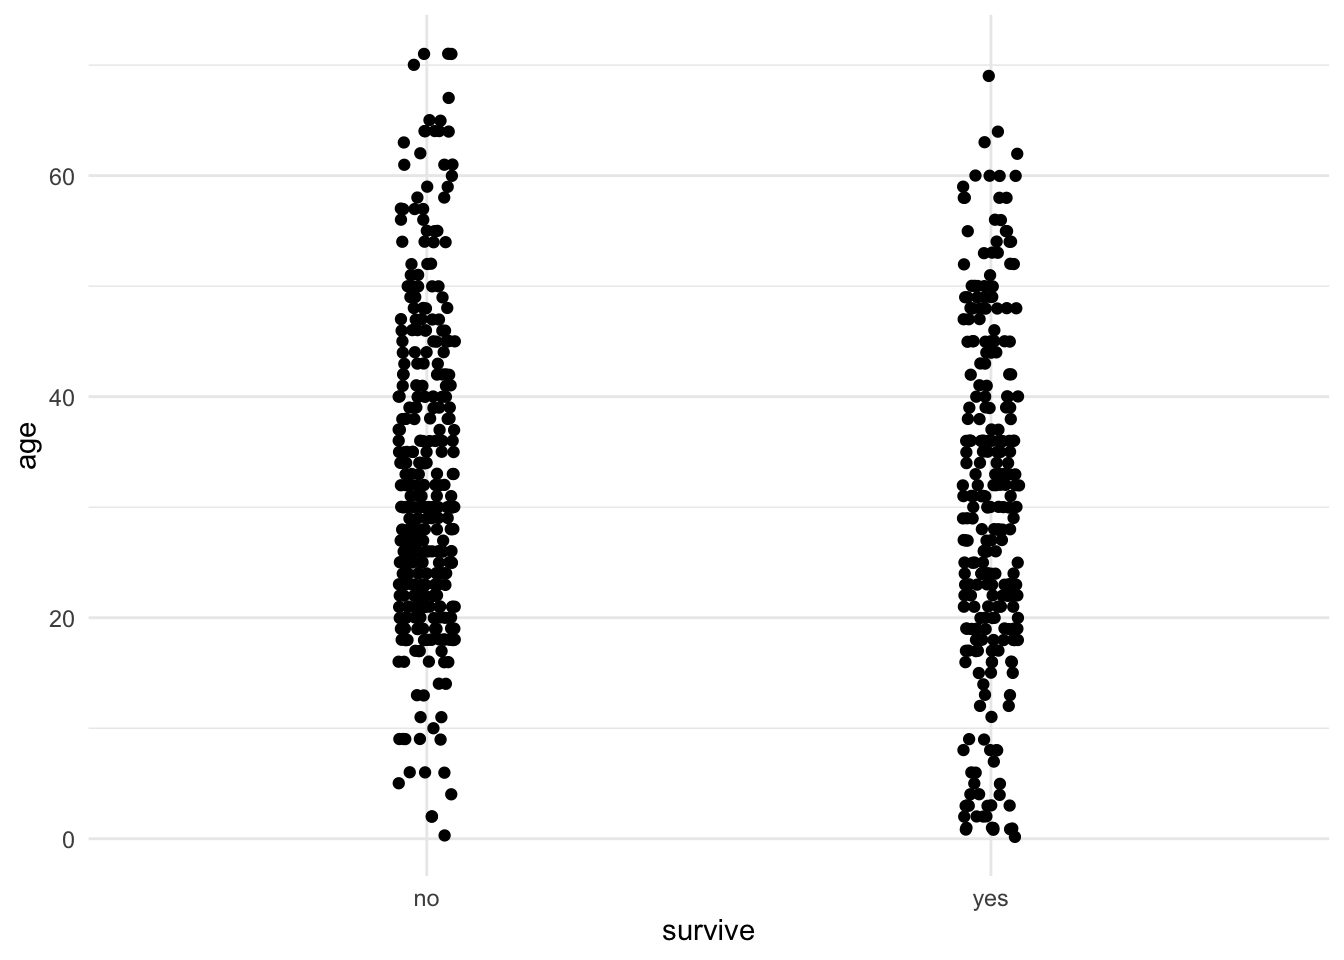
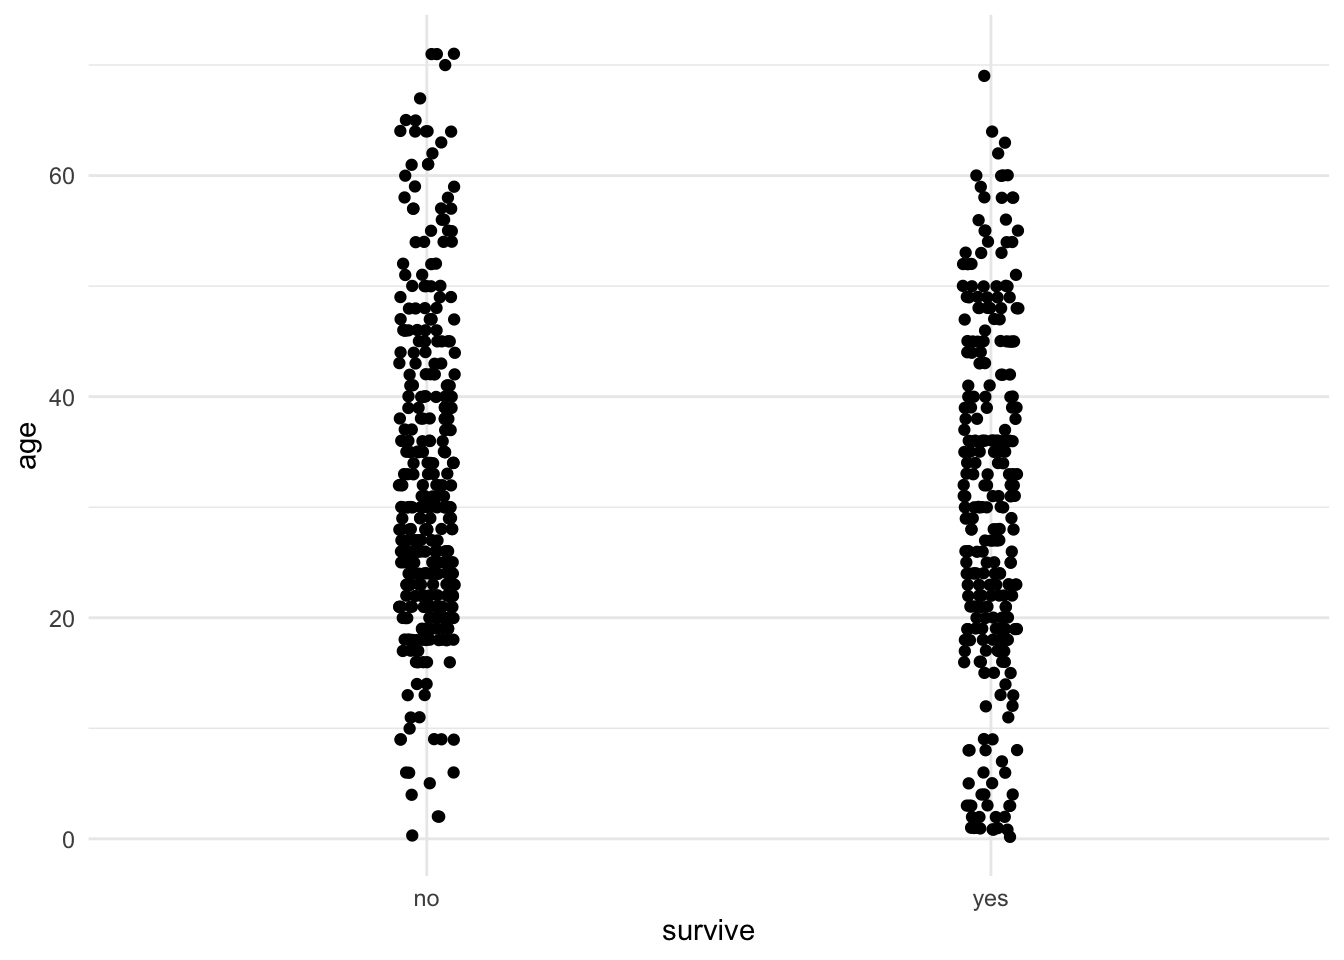
minor edits

Changed region(s): [[0.2812, 0.0312, 0.3438, 0.875], [0.6875, 0.125, 0.7812, 0.875], [0.7188, 0.0625, 0.75, 0.0938]]

diff --git a/RLabs/06_R_tutorial_Frequency_data.html b/RLabs/06_R_tutorial_Frequency_data.html
@@ -802,14 +802,23 @@ create a vector with a range of values with a colon. For example, 0:19
 is a vector with the integers from 0 to 19.</p>
 <div class="sourceCode" id="cb23"><pre class="sourceCode r"><code class="sourceCode r"><span id="cb23-1"><a href="#cb23-1" tabindex="-1"></a><span class="dv">0</span><span class="sc">:</span><span class="dv">19</span></span></code></pre></div>
 <pre><code>##  [1]  0  1  2  3  4  5  6  7  8  9 10 11 12 13 14 15 16 17 18 19</code></pre>
-<p>We’ll need the probabilities for all possible values of ‘x’ from 0 to
-20, but recall that the Poisson distribution extends to infinity. To get
-the probability for x ≥ 20, we can keep in mind that that the sum of all
-probabilities must equal 1. We can therefore create a vector with the
-Poisson probabilities of each possibility from 0 to 20 like this:</p>
-<div class="sourceCode" id="cb25"><pre class="sourceCode r"><code class="sourceCode r"><span id="cb25-1"><a href="#cb25-1" tabindex="-1"></a>expected_1to19 <span class="ot">&lt;-</span> <span class="fu">dpois</span>(<span class="at">x =</span> <span class="dv">0</span><span class="sc">:</span><span class="dv">19</span>, <span class="at">lambda =</span> <span class="fl">4.21</span>)</span>
-<span id="cb25-2"><a href="#cb25-2" tabindex="-1"></a>expected_probability <span class="ot">&lt;-</span> <span class="fu">c</span>(expected_1to19, <span class="dv">1</span> <span class="sc">-</span> <span class="fu">sum</span>(expected_1to19))</span>
-<span id="cb25-3"><a href="#cb25-3" tabindex="-1"></a>expected_probability</span></code></pre></div>
+<p>This can be plugged directly into <code>dpois()</code> along with the
+appropriate <code>lambda</code> to generate the probabilities for the
+integers from 0 to 19.</p>
+<div class="sourceCode" id="cb25"><pre class="sourceCode r"><code class="sourceCode r"><span id="cb25-1"><a href="#cb25-1" tabindex="-1"></a><span class="fu">dpois</span>(<span class="dv">0</span><span class="sc">:</span><span class="dv">19</span>, <span class="at">lambda =</span> <span class="fl">4.21</span>)</span></code></pre></div>
+<pre><code>##  [1] 1.484637e-02 6.250321e-02 1.315693e-01 1.846355e-01 1.943289e-01
+##  [6] 1.636249e-01 1.148102e-01 6.905011e-02 3.633762e-02 1.699793e-02
+## [11] 7.156129e-03 2.738846e-03 9.608784e-04 3.111768e-04 9.357530e-05
+## [16] 2.626347e-05 6.910575e-06 1.711384e-06 4.002736e-07 8.869220e-08</code></pre>
+<p>We’ll need the probabilities for all possible values of ‘x’ we see in
+the data, but recall that the Poisson distribution extends from 0 to
+infinity. To get the probability for x ≥ 20, we can keep in mind that
+that the sum of all probabilities must equal 1. We can therefore create
+a vector with the Poisson probabilities of each possibility from 0 to 20
+like this:</p>
+<div class="sourceCode" id="cb27"><pre class="sourceCode r"><code class="sourceCode r"><span id="cb27-1"><a href="#cb27-1" tabindex="-1"></a>expected_1to19 <span class="ot">&lt;-</span> <span class="fu">dpois</span>(<span class="at">x =</span> <span class="dv">0</span><span class="sc">:</span><span class="dv">19</span>, <span class="at">lambda =</span> <span class="fl">4.21</span>)</span>
+<span id="cb27-2"><a href="#cb27-2" tabindex="-1"></a>expected_probability <span class="ot">&lt;-</span> <span class="fu">c</span>(expected_1to19, <span class="dv">1</span> <span class="sc">-</span> <span class="fu">sum</span>(expected_1to19))</span>
+<span id="cb27-3"><a href="#cb27-3" tabindex="-1"></a>expected_probability</span></code></pre></div>
 <pre><code>##  [1] 1.484637e-02 6.250321e-02 1.315693e-01 1.846355e-01 1.943289e-01
 ##  [6] 1.636249e-01 1.148102e-01 6.905011e-02 3.633762e-02 1.699793e-02
 ## [11] 7.156129e-03 2.738846e-03 9.608784e-04 3.111768e-04 9.357530e-05
@@ -818,13 +827,15 @@ Poisson probabilities of each possibility from 0 to 20 like this:</p>
 <p>The odd notation here is a shorthand for scientific notation.
 1.48e-02 means 1.48 x 10<sup>-2</sup>. The e stands for exponent.</p>
 <p>Remember that we asked R to output the probability of values from 0
-to 20. So the first value in this output corresponds to the probability
-of getting a zero, the second to the probability of getting a 1,
-etc.</p>
+to 20+. Consequently, there are 21 numbers listed. The first value in
+this output corresponds to the probability of getting a zero, the second
+to the probability of getting a 1, etc. The 21st value (2.328750e-08)
+corresponds to the probability of x ≥ 20 (i.e., all the way out to
+infinity).</p>
 <p>In order to convert these probabilities into expected values for a
 <span class="math inline">\(\chi^2\)</span> test, we need to multiply
 them by the total sample size.</p>
-<div class="sourceCode" id="cb27"><pre class="sourceCode r"><code class="sourceCode r"><span id="cb27-1"><a href="#cb27-1" tabindex="-1"></a><span class="fu">length</span>(number_of_extinctions) <span class="sc">*</span> expected_probability</span></code></pre></div>
+<div class="sourceCode" id="cb29"><pre class="sourceCode r"><code class="sourceCode r"><span id="cb29-1"><a href="#cb29-1" tabindex="-1"></a><span class="fu">length</span>(number_of_extinctions) <span class="sc">*</span> expected_probability</span></code></pre></div>
 <pre><code>##  [1] 1.128324e+00 4.750244e+00 9.999264e+00 1.403230e+01 1.476900e+01
 ##  [6] 1.243549e+01 8.725572e+00 5.247808e+00 2.761659e+00 1.291843e+00
 ## [11] 5.438658e-01 2.081523e-01 7.302676e-02 2.364943e-02 7.111723e-03
@@ -898,11 +909,11 @@ frequency for the category “0 or 1” is the sum of 1.128324 and
 conditions of the <span class="math inline">\(\chi^2\)</span> test.</p>
 <p>Make vectors, using <code>c()</code>, for the observed and expected
 values for these new groups:</p>
-<div class="sourceCode" id="cb29"><pre class="sourceCode r"><code class="sourceCode r"><span id="cb29-1"><a href="#cb29-1" tabindex="-1"></a>expected_combined <span class="ot">&lt;-</span> </span>
-<span id="cb29-2"><a href="#cb29-2" tabindex="-1"></a>  <span class="fu">c</span>(<span class="fl">5.878568</span>, <span class="fl">9.999264</span>, <span class="fl">14.032300</span>, <span class="fl">14.768996</span>, </span>
-<span id="cb29-3"><a href="#cb29-3" tabindex="-1"></a>    <span class="fl">12.435494</span>, <span class="fl">8.725572</span>, <span class="fl">5.247808</span>, <span class="fl">4.911998</span>)</span>
-<span id="cb29-4"><a href="#cb29-4" tabindex="-1"></a></span>
-<span id="cb29-5"><a href="#cb29-5" tabindex="-1"></a>observed_combined <span class="ot">&lt;-</span> <span class="fu">c</span>(<span class="dv">13</span>, <span class="dv">15</span>, <span class="dv">16</span>, <span class="dv">7</span>, <span class="dv">10</span>, <span class="dv">4</span>, <span class="dv">2</span>, <span class="dv">9</span>)</span></code></pre></div>
+<div class="sourceCode" id="cb31"><pre class="sourceCode r"><code class="sourceCode r"><span id="cb31-1"><a href="#cb31-1" tabindex="-1"></a>expected_combined <span class="ot">&lt;-</span> </span>
+<span id="cb31-2"><a href="#cb31-2" tabindex="-1"></a>  <span class="fu">c</span>(<span class="fl">5.878568</span>, <span class="fl">9.999264</span>, <span class="fl">14.032300</span>, <span class="fl">14.768996</span>, </span>
+<span id="cb31-3"><a href="#cb31-3" tabindex="-1"></a>    <span class="fl">12.435494</span>, <span class="fl">8.725572</span>, <span class="fl">5.247808</span>, <span class="fl">4.911998</span>)</span>
+<span id="cb31-4"><a href="#cb31-4" tabindex="-1"></a></span>
+<span id="cb31-5"><a href="#cb31-5" tabindex="-1"></a>observed_combined <span class="ot">&lt;-</span> <span class="fu">c</span>(<span class="dv">13</span>, <span class="dv">15</span>, <span class="dv">16</span>, <span class="dv">7</span>, <span class="dv">10</span>, <span class="dv">4</span>, <span class="dv">2</span>, <span class="dv">9</span>)</span></code></pre></div>
 <p>From these we can calculate the <span
 class="math inline">\(\chi^2\)</span> test statistic using
 <code>chisq.test()$statistic</code>.</p>
@@ -914,7 +925,7 @@ option <code>rescale.p = TRUE</code>. Finally, by adding
 class="math inline">\(\chi^2\)</span> value as output. (We don’t yet
 want the full results of the test because R does not know to correct for
 the reduction in degrees of freedom caused by estimating the mean.)</p>
-<div class="sourceCode" id="cb30"><pre class="sourceCode r"><code class="sourceCode r"><span id="cb30-1"><a href="#cb30-1" tabindex="-1"></a><span class="fu">chisq.test</span>(observed_combined, <span class="at">p =</span> expected_combined, <span class="at">rescale.p =</span> <span class="cn">TRUE</span>)<span class="sc">$</span>statistic</span></code></pre></div>
+<div class="sourceCode" id="cb32"><pre class="sourceCode r"><code class="sourceCode r"><span id="cb32-1"><a href="#cb32-1" tabindex="-1"></a><span class="fu">chisq.test</span>(observed_combined, <span class="at">p =</span> expected_combined, <span class="at">rescale.p =</span> <span class="cn">TRUE</span>)<span class="sc">$</span>statistic</span></code></pre></div>
 <pre><code>## Warning in chisq.test(observed_combined, p = expected_combined, rescale.p
 ## = TRUE): Chi-squared approximation may be incorrect</code></pre>
 <pre><code>## X-squared 
@@ -944,7 +955,7 @@ class="math inline">\(\chi^2\)</span> (confusingly called <code>q</code>
 in this function), the degrees of freedom (called <code>df</code>, thank
 goodness), and an option that tells us to use the upper tail
 (<code>lower.tail = FALSE</code>).</p>
-<div class="sourceCode" id="cb33"><pre class="sourceCode r"><code class="sourceCode r"><span id="cb33-1"><a href="#cb33-1" tabindex="-1"></a><span class="fu">pchisq</span>(<span class="at">q =</span> <span class="fl">23.939</span>, <span class="at">df =</span> <span class="dv">6</span>, <span class="at">lower.tail =</span> <span class="cn">FALSE</span>)</span></code></pre></div>
+<div class="sourceCode" id="cb35"><pre class="sourceCode r"><code class="sourceCode r"><span id="cb35-1"><a href="#cb35-1" tabindex="-1"></a><span class="fu">pchisq</span>(<span class="at">q =</span> <span class="fl">23.939</span>, <span class="at">df =</span> <span class="dv">6</span>, <span class="at">lower.tail =</span> <span class="cn">FALSE</span>)</span></code></pre></div>
 <pre><code>## [1] 0.0005359236</code></pre>
 <p>Thus, our <em>P-</em>value for this test of the fit of these data to
 a Poisson distribution is approximately 0.0005. We reject the null
@@ -1037,7 +1048,7 @@ the selection of the stockings was independent of position.</p></li>
 as a data frame, as above, or as a vector of the observed counts, as a
 parameter called <code>x</code> as input:</p></li>
 </ol>
-<div class="sourceCode" id="cb35"><pre class="sourceCode r"><code class="sourceCode r"><span id="cb35-1"><a href="#cb35-1" tabindex="-1"></a><span class="fu">chisq.test</span>(<span class="at">x =</span> <span class="fu">c</span>(<span class="dv">6</span>,<span class="dv">9</span>,<span class="dv">16</span>,<span class="dv">21</span>), <span class="at">p =</span> <span class="fu">c</span>(<span class="fl">0.25</span>,<span class="fl">0.25</span>,<span class="fl">0.25</span>,<span class="fl">0.25</span>))</span></code></pre></div>
+<div class="sourceCode" id="cb37"><pre class="sourceCode r"><code class="sourceCode r"><span id="cb37-1"><a href="#cb37-1" tabindex="-1"></a><span class="fu">chisq.test</span>(<span class="at">x =</span> <span class="fu">c</span>(<span class="dv">6</span>,<span class="dv">9</span>,<span class="dv">16</span>,<span class="dv">21</span>), <span class="at">p =</span> <span class="fu">c</span>(<span class="fl">0.25</span>,<span class="fl">0.25</span>,<span class="fl">0.25</span>,<span class="fl">0.25</span>))</span></code></pre></div>
 <p>Try it using the specification of the counts, to see that you get the
 same answer as in (b).</p>
 <p><br> 4. Many people believe that the month in which a person is born
@@ -1135,7 +1146,7 @@ test?</p></li>
 frequencies.</p></li>
 <li><p>Calculate the <span class="math inline">\(\chi^2\)</span> for
 this hypothesis test, using
-<code>chisq.test()\$statistic</code>.</p></li>
+<code>chisq.test()$statistic</code>.</p></li>
 <li><p>How many degrees of freedom should this <span
 class="math inline">\(\chi^2\)</span> goodness of fit test
 have?</p></li>

diff --git a/RLabs/08_R_tutorial_Normal_and_sample_means.html b/RLabs/08_R_tutorial_Normal_and_sample_means.html
@@ -681,9 +681,9 @@ distribution</p></li>
 numbers drawn from a normal distribution with mean 13 and standard
 deviation 4:</p>
 <div class="sourceCode" id="cb6"><pre class="sourceCode r"><code class="sourceCode r"><span id="cb6-1"><a href="#cb6-1" tabindex="-1"></a><span class="fu">rnorm</span>(<span class="at">n =</span> <span class="dv">20</span>, <span class="at">mean =</span> <span class="dv">13</span>, <span class="at">sd =</span> <span class="dv">4</span>)</span></code></pre></div>
-<pre><code>##  [1] 12.609876 12.907114 17.155890  7.904071 11.621616 10.994081 13.556141
-##  [8] 14.871899 16.008812 14.943457  6.708223 13.756260  9.849426 12.649452
-## [15]  8.951657  9.208251 18.100502 10.283084 15.797126 10.856358</code></pre>
+<pre><code>##  [1] 10.853280 15.280391  8.959630 15.489195  8.598940 12.477979  9.778402
+##  [8]  6.506566 14.964599  6.838508  2.744726 13.826216 19.100187  7.375562
+## [15] 14.114610 13.516990 19.409958 13.455047 16.405482  8.263806</code></pre>
 <p>Let’s look at a QQ plot generated from 100 numbers randomly drawn
 from a normal distribution:</p>
 <div class="sourceCode" id="cb8"><pre class="sourceCode r"><code class="sourceCode r"><span id="cb8-1"><a href="#cb8-1" tabindex="-1"></a>normal_vector <span class="ot">&lt;-</span> <span class="fu">rnorm</span>(<span class="at">n =</span> <span class="dv">100</span>, <span class="at">mean =</span> <span class="dv">13</span>, <span class="at">sd =</span> <span class="dv">4</span>)</span>

diff --git a/RLabs/03_R_tutorial_Sampling.html b/RLabs/03_R_tutorial_Sampling.html
@@ -596,8 +596,8 @@ file in that folder to make these exercises work more seamlessly.</p>
 <hr />
 <p><br></p>
 </div>
-<div id="activities-and-questions" class="section level1">
-<h1>Activities and Questions</h1>
+<div id="activities-questions" class="section level1">
+<h1>Activities &amp; Questions</h1>
 <p><br></p>
 <p>In this lab you will be given a container of 25 cowrie shells. Think
 of this collection of shells as the complete population that you care
@@ -661,7 +661,7 @@ randomly chooses integers from a given range. To randomly sample 5
 individuals from 25 possibilities, we can use:</li>
 </ol>
 <div class="sourceCode" id="cb1"><pre class="sourceCode r"><code class="sourceCode r"><span id="cb1-1"><a href="#cb1-1" tabindex="-1"></a><span class="fu">sample.int</span>(<span class="at">n =</span> <span class="dv">25</span>, <span class="at">size =</span> <span class="dv">5</span>)</span></code></pre></div>
-<pre><code>## [1] 13  2  6 22 21</code></pre>
+<pre><code>## [1] 11 14  4 16  7</code></pre>
 <p>This tells R to give us a sample of <code>size = 5</code> numbers
 randomly chosen from the integers 1 to <code>n</code>, and here we set
 <code>n = 25</code>. (When you run this line you will almost certainly

diff --git a/RLabs/04_R_tutorial_Graphics.html b/RLabs/04_R_tutorial_Graphics.html
@@ -918,8 +918,10 @@ them?</p></li>
 approximately three times head circumference (each must be measured in
 the same units). Create a new column in your <code>data.frame</code>
 that contains head circumference multiplied by 3. Plot the relationship
-between height and this new variable. Do students in our course,
-collectively speaking, seem to follow this rule of thumb?</p></li>
+between height and this new variable (again,
+<code>+ theme(aspect.ratio = 1)</code> may be advisable here). Do
+students in our course, collectively speaking, seem to follow this rule
+of thumb?</p></li>
 </ol>
 <p><br> 7. Pick one of the plots you made using R today. What could be
 improved about this graph to make it a more effective presentation of

diff --git a/RLabs/02_R_tutorial_Tabular_data.html b/RLabs/02_R_tutorial_Tabular_data.html
@@ -1160,7 +1160,7 @@ of <code>life_expectancy_at_birth_female</code> for Japan, as found in
 <code>japan_data</code>.</p>
 <p><br> 5. Using the <code>countries</code> data, create a new data
 frame called <code>AfricaData</code> that only includes data for
-countries in Africa via the <code>filter()</code> function.</p>
+countries in Africa.</p>
 <ol style="list-style-type: lower-alpha">
 <li><p>How many countries are included in
 <code>AfricaData</code>?</p></li>
